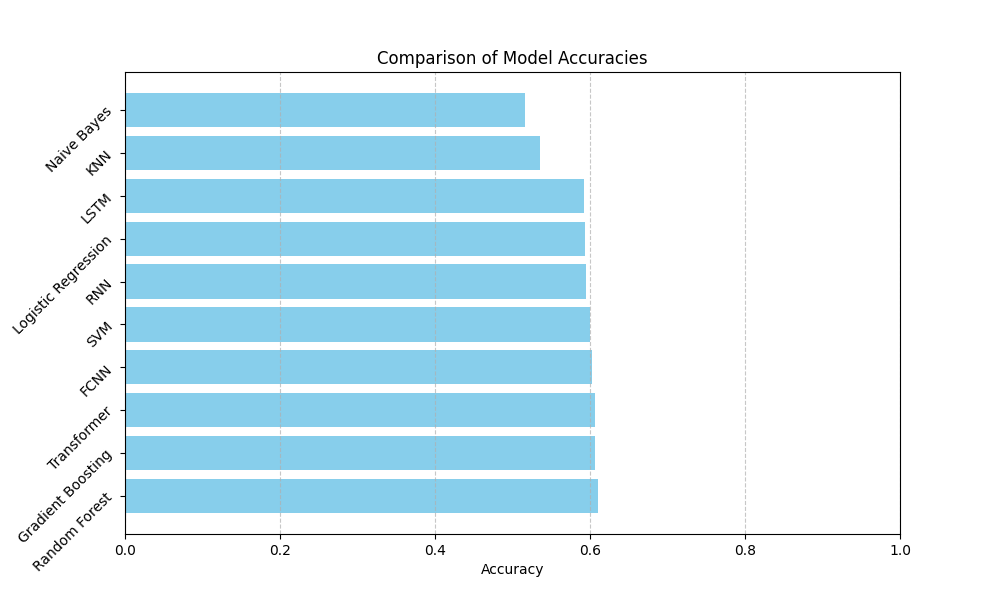
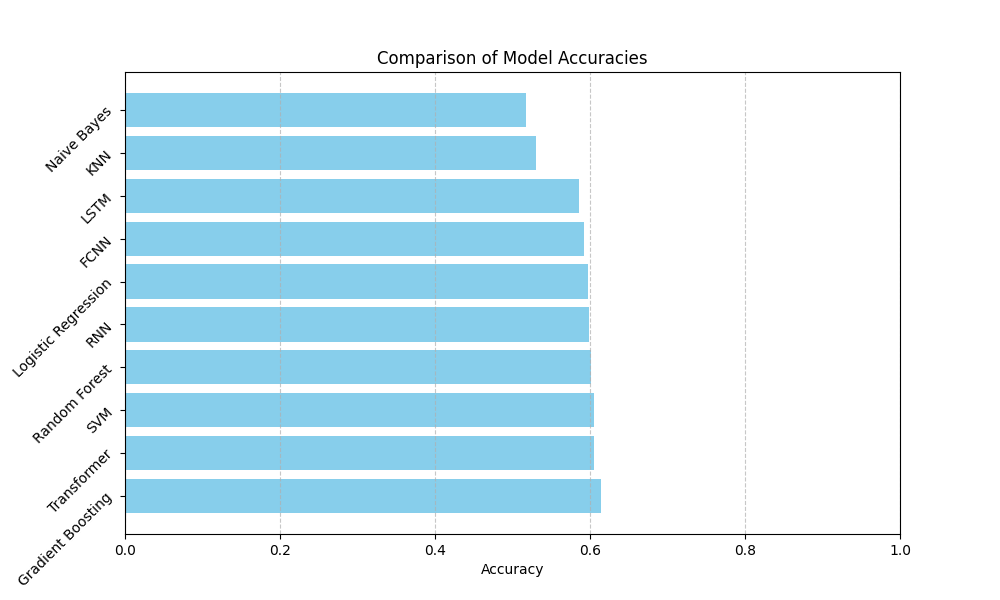
Trained and evaluated models with latest updated data. Added logic for storing and loading neural network models. Updated number of epochs for RNN.

diff --git a/code/utils.py b/code/utils.py
@@ -6,7 +6,7 @@ import numpy as np
 from sklearn.metrics import confusion_matrix, ConfusionMatrixDisplay
 from sklearn.model_selection import learning_curve
 import torch
-from torch.utils.data import DataLoader, TensorDataset
+from config import DATA_PATH
 
 train_color = "#1f77b4"
 cross_validation_color = "#ff7f0e"
@@ -55,6 +55,15 @@ def plot_learning_curve(
     n_trials=5,
 ):
     if isinstance(model, torch.nn.Module):
+        model_path = os.path.join(DATA_PATH, f"{model_name}.pth")
+        if os.path.exists(model_path):
+            print(f"Loading pretrained model {model_name} for learning curve analysis.")
+            model.load_state_dict(torch.load(model_path))
+            model.to(device)
+            model.eval()
+        else:
+            print(f"Warning: Pretrained model {model_name} not found. Training again.")
+
         train_scores = {size: [] for size in train_sizes}
         test_scores = {size: [] for size in train_sizes}
 
@@ -64,26 +73,6 @@ def plot_learning_curve(
                 indices = np.random.permutation(len(X))
                 X_subset = X[indices[:subset_size]]
                 y_subset = y[indices[:subset_size]]
-
-                dataset = TensorDataset(
-                    torch.tensor(X_subset.astype(np.float32)).to(device),
-                    torch.tensor(y_subset.astype(np.longlong)).to(device),
-                )
-                dataloader = DataLoader(dataset, batch_size=32, shuffle=True)
-
-                optimizer = torch.optim.SGD(
-                    model.parameters(), lr=0.001, weight_decay=0.1
-                )
-                criterion = torch.nn.CrossEntropyLoss()
-
-                model.train()
-                for epoch in range(10):
-                    for inputs, labels in dataloader:
-                        optimizer.zero_grad()
-                        outputs = model(inputs)
-                        loss = criterion(outputs, labels)
-                        loss.backward()
-                        optimizer.step()
 
                 model.eval()
                 with torch.no_grad():

diff --git a/code/training.py b/code/training.py
@@ -1,10 +1,11 @@
 # training.py
 
+import os
 import torch
 import torch.optim as optim
 from torch.utils.data import DataLoader, TensorDataset
 import numpy as np
-from config import HYPERPARAMETERS
+from config import HYPERPARAMETERS, DATA_PATH
 
 
 def train_model(name, model, X_train, y_train, device):
@@ -92,6 +93,9 @@ def train_model(name, model, X_train, y_train, device):
                 optimizer.step()
 
                 epoch_loss += loss.item()
+
+        torch.save(model.state_dict(), os.path.join(DATA_PATH, f"{name}.pth"))
+        print(f"Model {name} saved successfully.")
 
     else:
         # training logic for scikit-learn models

diff --git a/code/config.py b/code/config.py
@@ -160,7 +160,7 @@ HYPERPARAMETERS = {
         "optimizer": "SGD", # optimization algorithm
         "learning_rate": 0.001, # step size for optimizer
         "weight_decay": 0.1, # weight decay for regularization
-        "num_epochs": 500, # number of training epochs
+        "num_epochs": 300, # number of training epochs
         "batch_size": 16, # batch size for training
         # sgd parameters
         "momentum": 0.0, # momentum factor
